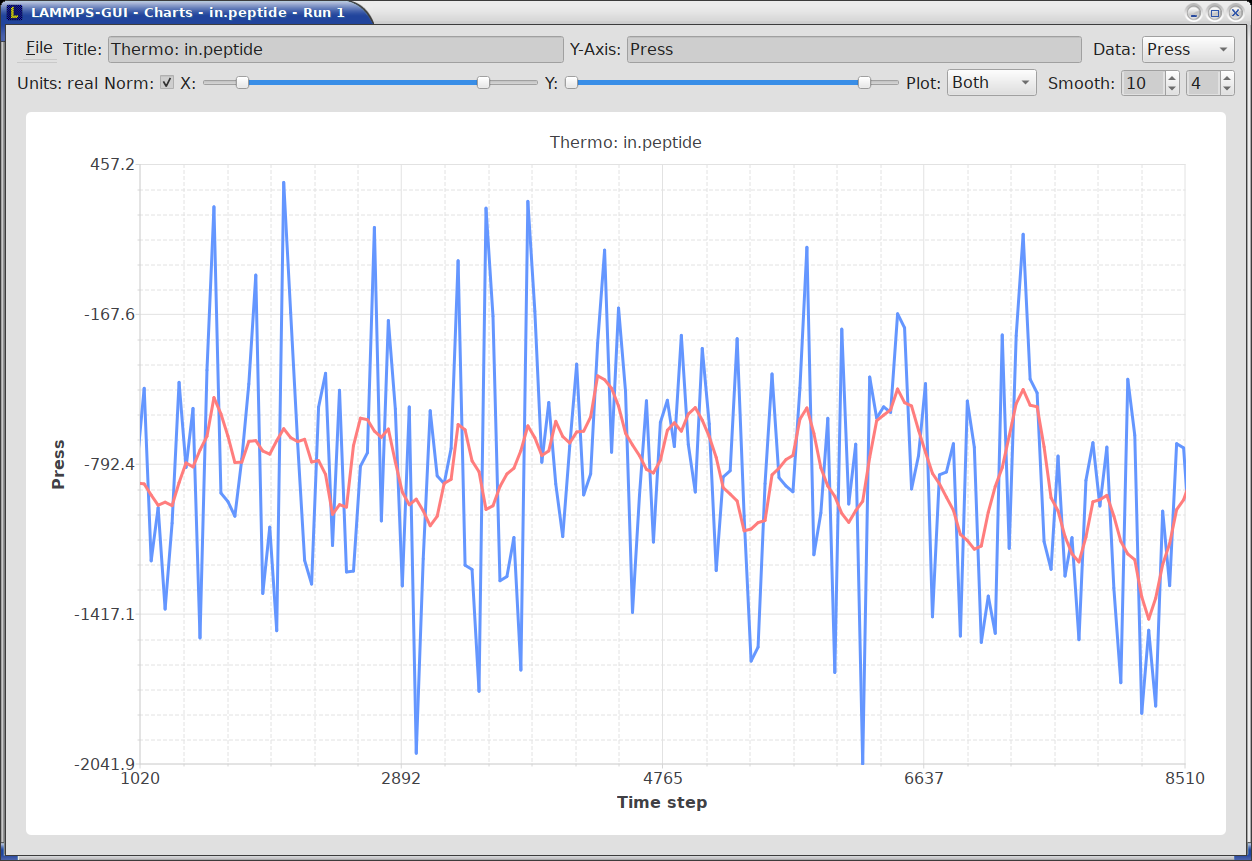
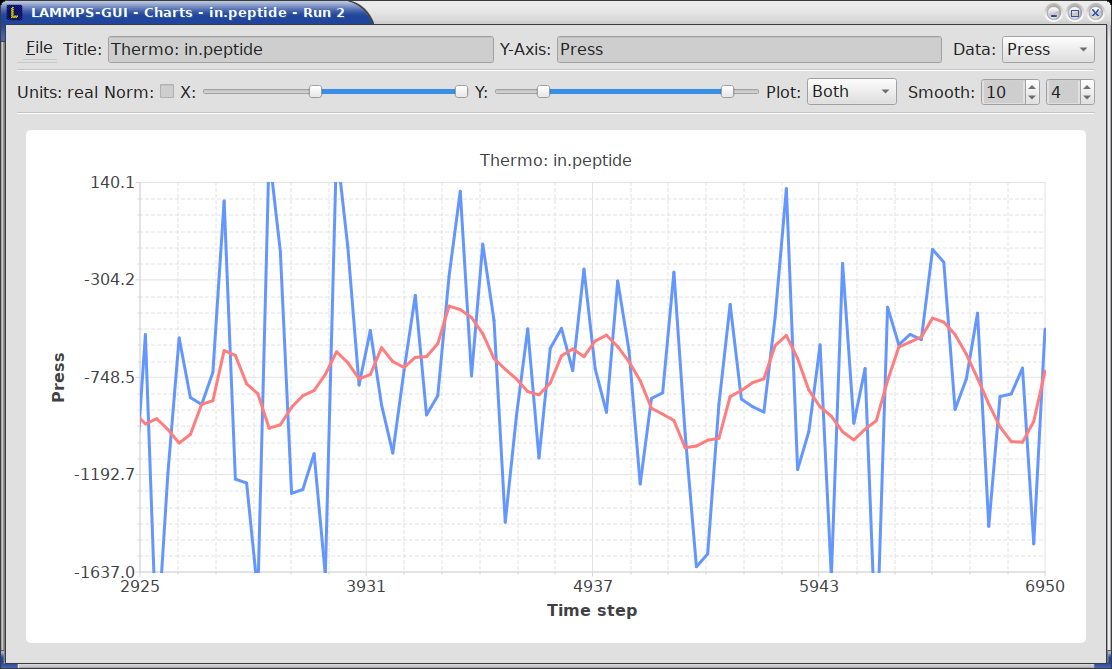
update docs and screen shot

Changed region(s): [[0.0, 0.0, 1.0, 1.0], [0.0917, 0.2392, 0.1223, 0.299]]

diff --git a/tools/lammps-gui/preferences.cpp b/tools/lammps-gui/preferences.cpp
@@ -60,7 +60,7 @@
 #endif
 
 // convenience class
-
+namespace {
 class QHline : public QFrame {
 public:
     QHline(QWidget *parent = nullptr) : QFrame(parent)
@@ -70,6 +70,7 @@ public:
         setFrameShadow(QFrame::Sunken);
     }
 };
+}
 
 Preferences::Preferences(LammpsWrapper *_lammps, QWidget *parent) :
     QDialog(parent), tabWidget(new QTabWidget),

diff --git a/doc/src/Howto_lammps_gui.rst b/doc/src/Howto_lammps_gui.rst
@@ -393,49 +393,23 @@ plot of thermodynamic output of the LAMMPS calculation as shown below.
    :align: center
    :scale: 33%
 
-The drop down menu on the top right allows selection of different
-properties that are computed and written to thermo output.  Only one
-property can be shown at a time.  The plots are updated regularly with
-new data as the run progresses, so they can be used to visually monitor
-the evolution of available properties.  The update interval can be set
-in the *Preferences* dialog.  By default, the raw data for the selected
-property is plotted as a blue graph.  From the drop down menu on the top
-left, you can select whether to plot only raw data graph, only a
-smoothed data graph or both.  The smoothing uses a `Savitzky-Golay
-convolution filter
-<https://en.wikipedia.org/wiki/Savitzky%E2%80%93Golay_filter>`_ The
+The "Data:" drop down menu on the top right allows selection of
+different properties that are computed and written as thermodynamic
+output to the output window.  Only one property can be shown at a time.
+The plots are updated regularly with new data as the run progresses, so
+they can be used to visually monitor the evolution of available
+properties.  The update interval can be set in the *Preferences* dialog.
+By default, the raw data for the selected property is plotted as a blue
+graph.  From the "Plot:" drop menu on the second row and on the left,
+you can select whether to plot only raw data graph, only a smoothed data
+graph, or both graphs on top of each other.  The smoothing process uses
+a `Savitzky-Golay convolution filter
+<https://en.wikipedia.org/wiki/Savitzky%E2%80%93Golay_filter>`_.  The
 convolution window width (left) and order (right) parameters can be set
 in the boxes next to the drop down menu.  Default settings are 10 and 4
 which means that the smoothing window includes 10 points each to the
 left and the right of the current data point for a total of 21 points
 and a fourth order polynomial is fitted to the data in the window.
-
-.. admonition:: Slowdown of Simulations from Charts Data Processing
-   :class: warning
-
-   Using frequent thermo output during long simulations can result in a
-   significant slowdown of that simulation since it is accumulating many
-   data points for each of the thermo properties in the chart window to
-   be redrawn with every update.  The updates are consuming additional
-   CPU time when smoothing enabled.  This slowdown can be confirmed when
-   an increasing percentage of the total run time is spent in the
-   "Output" or "Other" sections of the :doc:`MPI task timing breakdown
-   <Run_output>`.  It is thus recommended to use a large enough value as
-   argument `N` for the :doc:`thermo command <thermo>` and to select
-   plotting only the "Raw" data in the *Charts Window* during such
-   simulations.  It is always possible to switch between the different
-   display styles for charts during the simulation and after it has
-   finished.
-
-   .. versionchanged:: 1.6.15
-
-      As of LAMMPS-GUI version 1.6.15 the chart data processing is
-      significantly optimized compared to older versions of LAMMPS-GUI.
-      The general problem of accumulating excessive amounts of data
-      and the overhead of too frequently polling LAMMPS for new data
-      cannot be optimized away, though.  If necessary, the command
-      line LAMMPS executable needs to be used and the output accumulated
-      of a very fast disk (e.g. a high-performance SSD).
 
 The "Title:" and "Y:" input boxes allow to edit the text shown as the
 plot title and the y-axis label, respectively.  The text entered in the
@@ -472,6 +446,35 @@ The *Preferences* dialog has a *Charts* tab, where you can configure
 multiple chart-related settings, like the default title, colors for the
 graphs, default choice of the raw / smooth graph selection, and the
 default chart graph size.
+
+
+
+.. admonition:: Slowdown of Simulations from Charts Data Processing
+   :class: warning
+
+   Using frequent thermo output during long simulations can result in a
+   significant slowdown of that simulation since it is accumulating many
+   data points for each of the thermo properties in the chart window to
+   be redrawn with every update.  The updates are consuming additional
+   CPU time when smoothing enabled.  This slowdown can be confirmed when
+   an increasing percentage of the total run time is spent in the
+   "Output" or "Other" sections of the :doc:`MPI task timing breakdown
+   <Run_output>`.  It is thus recommended to use a large enough value as
+   argument `N` for the :doc:`thermo command <thermo>` and to select
+   plotting only the "Raw" data in the *Charts Window* during such
+   simulations.  It is always possible to switch between the different
+   display styles for charts during the simulation and after it has
+   finished.
+
+   .. versionchanged:: 1.7
+
+      As of LAMMPS-GUI version 1.7 the chart data processing is
+      significantly optimized compared to older versions of LAMMPS-GUI.
+      The general problem of accumulating excessive amounts of data
+      and the overhead of too frequently polling LAMMPS for new data
+      cannot be optimized away, though.  If necessary, the command
+      line LAMMPS executable needs to be used and the output accumulated
+      of a very fast disk (e.g. a high-performance SSD).
 
 Image Slide Show
 ----------------
